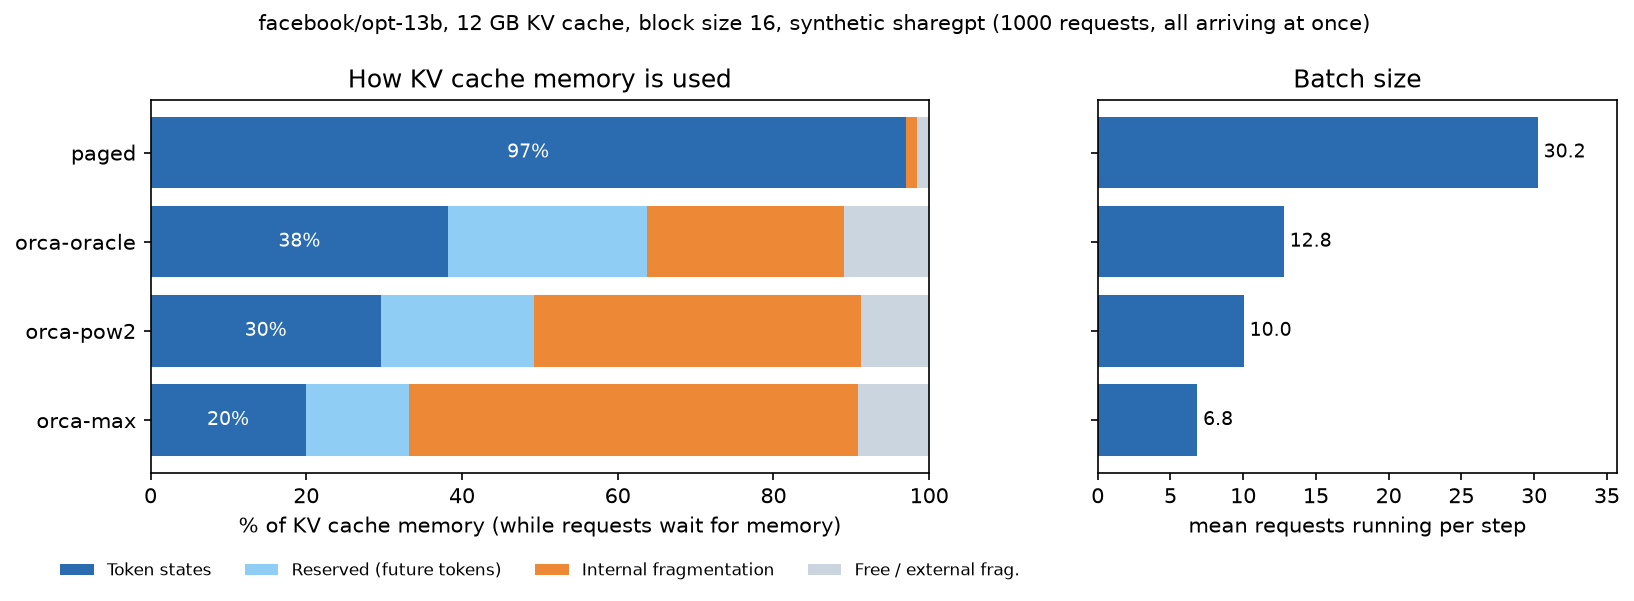
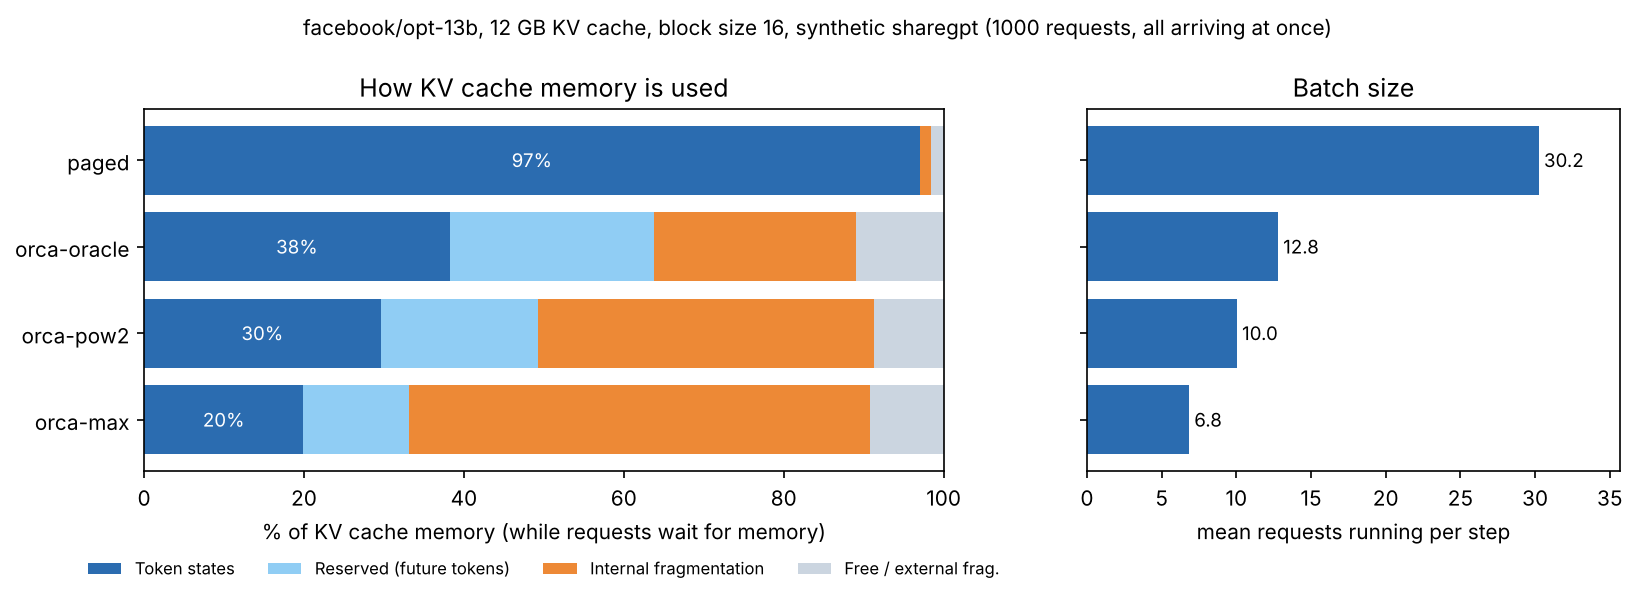
Faster Attention Kernal

diff --git a/minivllm/attention/paged_ref.py b/minivllm/attention/paged_ref.py
@@ -5,13 +5,21 @@ KV cache layout, per layer:   key_cache[num_blocks, block_size, num_kv_heads, he
 A token at position i of a sequence lives in physical block  table[i // B]  at offset  i % B,
 i.e. at flat slot  table[i // B] * B + i % B.
 
-This version gathers each sequence's blocks with tensor indexing and calls PyTorch's
-built-in attention. It is slow (a Python loop over sequences) but obviously correct,
-which is exactly what we want from a reference. The fast Triton kernel (§5) is checked
-against it.
+Two paths:
+  * prefill sequences (many new tokens): gather the sequence's blocks into a contiguous
+    history and run causal attention, one sequence at a time;
+  * decode sequences (one new token each): gather ALL of them at once into a padded
+    [num_seqs, max_len] history and run a single batched attention call.
+
+The block lookups for a step are computed once (plan_paged) and reused by every layer.
+This is still a gather-then-attend reference: it copies K/V out of the blocks. The Triton
+kernel (§5) reads the blocks in place instead and is checked against this code.
 """
 
 from __future__ import annotations
+
+from dataclasses import dataclass
+from typing import Optional
 
 import torch
 import torch.nn.functional as F
@@ -30,6 +38,44 @@ def write_kv(
     value_cache.view(num_blocks * block_size, h, d).index_copy_(0, slot_mapping, value)
 
 
+@dataclass
+class PagedPlan:
+    """Per-step lookup tables, shared by all layers."""
+
+    prefill: list[tuple[int, int, int, torch.Tensor, torch.Tensor]]  # (offset, qlen, ctx, block idx, causal mask)
+    decode_offsets: Optional[torch.Tensor]   # [S] positions of decode tokens in the flat batch
+    decode_blocks: Optional[torch.Tensor]    # [S, max_blocks] padded block tables
+    decode_mask: Optional[torch.Tensor]      # [S, 1, 1, max_blocks * block_size] valid keys
+    num_tokens: int
+
+
+def plan_paged(block_tables: list[list[int]], context_lens: list[int], query_lens: list[int],
+               block_size: int, device: torch.device) -> PagedPlan:
+    prefill, dec_off, dec_tables, dec_ctx = [], [], [], []
+    offset = 0
+    for table, ctx, qlen in zip(block_tables, context_lens, query_lens):
+        n_blocks = (ctx + block_size - 1) // block_size
+        if qlen == 1:
+            dec_off.append(offset)
+            dec_tables.append(table[:n_blocks])
+            dec_ctx.append(ctx)
+        else:
+            idx = torch.tensor(table[:n_blocks], device=device, dtype=torch.long)
+            q_pos = torch.arange(ctx - qlen, ctx, device=device)
+            mask = torch.arange(ctx, device=device)[None, :] <= q_pos[:, None]   # [qlen, ctx]
+            prefill.append((offset, qlen, ctx, idx, mask))
+        offset += qlen
+
+    if not dec_off:
+        return PagedPlan(prefill, None, None, None, offset)
+    max_blocks = max(len(t) for t in dec_tables)
+    padded = [t + [t[0]] * (max_blocks - len(t)) for t in dec_tables]  # pad with a valid block; masked out
+    blocks = torch.tensor(padded, device=device, dtype=torch.long)
+    ctx_t = torch.tensor(dec_ctx, device=device)
+    mask = torch.arange(max_blocks * block_size, device=device)[None, :] < ctx_t[:, None]
+    return PagedPlan(prefill, torch.tensor(dec_off, device=device), blocks, mask[:, None, None, :], offset)
+
+
 def paged_attention(
     query: torch.Tensor,             # [num_tokens, num_heads, head_dim], all sequences concatenated
     key_cache: torch.Tensor,         # [num_blocks, block_size, num_kv_heads, head_dim]
@@ -38,33 +84,35 @@ def paged_attention(
     context_lens: list[int],         # per sequence: tokens to attend to (including the new ones)
     query_lens: list[int],           # per sequence: new tokens in this step (prefill: many, decode: 1)
     scale: float,
+    plan: Optional[PagedPlan] = None,
 ) -> torch.Tensor:
     """Causal attention where each sequence reads its K/V through its block table."""
-    block_size = key_cache.shape[1]
-    num_heads, num_kv_heads = query.shape[1], key_cache.shape[2]
+    block_size, num_kv_heads, head_dim = key_cache.shape[1], key_cache.shape[2], key_cache.shape[3]
+    num_heads = query.shape[1]
+    rep = num_heads // num_kv_heads
+    if plan is None:
+        plan = plan_paged(block_tables, context_lens, query_lens, block_size, query.device)
+    assert plan.num_tokens == query.shape[0], "query_lens must cover every token"
     out = torch.empty_like(query)
-    offset = 0
-    for table, ctx, qlen in zip(block_tables, context_lens, query_lens):
-        n_blocks = (ctx + block_size - 1) // block_size
-        idx = torch.as_tensor(table[:n_blocks], device=key_cache.device, dtype=torch.long)
-        # Gather this sequence's blocks and flatten them back into one contiguous history.
-        k = key_cache[idx].reshape(-1, num_kv_heads, key_cache.shape[3])[:ctx]
-        v = value_cache[idx].reshape(-1, num_kv_heads, value_cache.shape[3])[:ctx]
-        if num_kv_heads != num_heads:  # grouped-query attention: share each KV head across queries
-            k = k.repeat_interleave(num_heads // num_kv_heads, dim=1)
-            v = v.repeat_interleave(num_heads // num_kv_heads, dim=1)
+
+    for offset, qlen, ctx, idx, mask in plan.prefill:
+        k = key_cache[idx].reshape(-1, num_kv_heads, head_dim)[:ctx]
+        v = value_cache[idx].reshape(-1, num_kv_heads, head_dim)[:ctx]
+        if rep > 1:  # grouped-query attention: share each KV head across several query heads
+            k, v = k.repeat_interleave(rep, dim=1), v.repeat_interleave(rep, dim=1)
         q = query[offset : offset + qlen]
-
-        # Query j sits at absolute position ctx - qlen + j and may see keys 0..that position.
-        q_pos = torch.arange(ctx - qlen, ctx, device=query.device)
-        k_pos = torch.arange(ctx, device=query.device)
-        mask = k_pos[None, :] <= q_pos[:, None]          # [qlen, ctx]
-
         o = F.scaled_dot_product_attention(
-            q.transpose(0, 1), k.transpose(0, 1), v.transpose(0, 1),  # [heads, len, dim]
-            attn_mask=mask, scale=scale,
-        )
+            q.transpose(0, 1), k.transpose(0, 1), v.transpose(0, 1), attn_mask=mask, scale=scale)
         out[offset : offset + qlen] = o.transpose(0, 1)
-        offset += qlen
-    assert offset == query.shape[0], "query_lens must cover every token"
+
+    if plan.decode_offsets is not None:
+        S = plan.decode_blocks.shape[0]
+        k = key_cache[plan.decode_blocks].reshape(S, -1, num_kv_heads, head_dim)   # [S, L, Hkv, D]
+        v = value_cache[plan.decode_blocks].reshape(S, -1, num_kv_heads, head_dim)
+        if rep > 1:
+            k, v = k.repeat_interleave(rep, dim=2), v.repeat_interleave(rep, dim=2)
+        q = query[plan.decode_offsets]                                              # [S, H, D]
+        o = F.scaled_dot_product_attention(
+            q[:, :, None, :], k.transpose(1, 2), v.transpose(1, 2), attn_mask=plan.decode_mask, scale=scale)
+        out[plan.decode_offsets] = o[:, :, 0, :]
     return out

diff --git a/examples/demo.py b/examples/demo.py
@@ -94,20 +94,41 @@ def main() -> None:
           f"{engine.block_manager.get_num_free_gpu_blocks() == engine.block_manager.num_total_gpu_blocks}")
 
     if not args.no_check and args.temperature == 0.0:
-        same = 0
-        # Reference: HuggingFace forward pass over the whole sequence each step, with no KV
-        # cache at all, then argmax. (generate() is not used: it forbids EOS under
-        # min_new_tokens, while our benchmarks ignore EOS, so they could legitimately differ.)
-        for prompt, out in zip(prompts, outs):
-            ids = list(prompt) if tok is None else tok(prompt).input_ids
-            n = len(ids)
-            with torch.no_grad():
-                for _ in range(args.max_tokens):
-                    logits = model(torch.tensor([ids], device=device)).logits[0, -1]
-                    ids.append(int(torch.argmax(logits)))
-            same += ids[n:] == out.output_token_ids[0]
-        print(f"Matches HuggingFace (no-cache reference): {same}/{len(prompts)} prompts"
-              + ("" if device == "cpu" else "  (FP16 on GPU: rare near-ties can flip a token)"))
+        check_against_huggingface(model, tok, prompts, outs, dtype)
+
+
+def check_against_huggingface(model, tok, prompts, outs, dtype) -> None:
+    """Teacher-forced check: run plain HuggingFace (no KV cache) over prompt + OUR output in one
+    pass, and verify that at every position our token is HuggingFace's top choice.
+
+    In float16/bfloat16 two candidates can be within rounding error of each other ("near-tie");
+    then either choice is correct, so a mismatch with a tiny logit gap is reported as such.
+    """
+    device = next(model.parameters()).device
+    eos = tok.eos_token_id if tok is not None else model.config.eos_token_id
+    tol = 1e-4 if dtype in (torch.float32, torch.float64) else 0.1  # logit gap counted as a tie
+    exact = near = 0
+    for i, (prompt, out) in enumerate(zip(prompts, outs)):
+        ids = list(prompt) if tok is None else tok(prompt).input_ids
+        ours = out.output_token_ids[0]
+        with torch.no_grad():
+            logits = model(torch.tensor([ids + ours], device=device)).logits[0].float()
+        pred = logits[len(ids) - 1 : len(ids) - 1 + len(ours)]   # prediction for each of our tokens
+        ref = pred.argmax(-1).tolist()
+        diffs = [k for k, (a, b) in enumerate(zip(ours, ref)) if a != b]
+        if not diffs:
+            exact += 1
+            continue
+        gaps = [float(pred[k, ref[k]] - pred[k, ours[k]]) for k in diffs]
+        is_tie = max(gaps) <= tol
+        near += is_tie
+        k = diffs[0]
+        after_eos = eos in ours[:k]
+        print(f"  prompt {i}: {len(diffs)} position(s) differ, first at output token {k}; "
+              f"largest logit gap {max(gaps):.3f} -> {'near-tie (rounding), OK' if is_tie else 'REAL MISMATCH'}"
+              + ("; happens after the model emitted end-of-text (ignored on purpose)" if after_eos else ""))
+    print(f"Matches HuggingFace (no-cache reference): {exact}/{len(prompts)} exact, "
+          f"{exact + near}/{len(prompts)} within {dtype} rounding")
 
 
 if __name__ == "__main__":

diff --git a/minivllm/model/opt.py b/minivllm/model/opt.py
@@ -13,7 +13,7 @@ from dataclasses import dataclass
 import torch
 from torch import nn
 
-from minivllm.attention import paged_attention, write_kv
+from minivllm.attention.paged_ref import paged_attention, plan_paged, write_kv
 
 
 @dataclass
@@ -63,6 +63,9 @@ class PagedOPT(nn.Module):
         h = h + dec.embed_positions.weight[meta.positions + self.pos_offset]
 
         num_tokens = input_ids.shape[0]
+        # Block lookups are the same for every layer: compute them once per step.
+        plan = plan_paged(meta.block_tables, meta.context_lens, meta.query_lens,
+                          kv_caches[0][0].shape[1], input_ids.device)
         for layer, (k_cache, v_cache) in zip(dec.layers, kv_caches):
             attn = layer.self_attn
             residual = h
@@ -74,7 +77,7 @@ class PagedOPT(nn.Module):
             write_kv(k, v, k_cache, v_cache, meta.slot_mapping)
             o = paged_attention(
                 q, k_cache, v_cache, meta.block_tables, meta.context_lens, meta.query_lens,
-                scale=attn.scaling,
+                scale=attn.scaling, plan=plan,
             )
             h = residual + attn.out_proj(o.reshape(num_tokens, -1))
             if not cfg.do_layer_norm_before:
